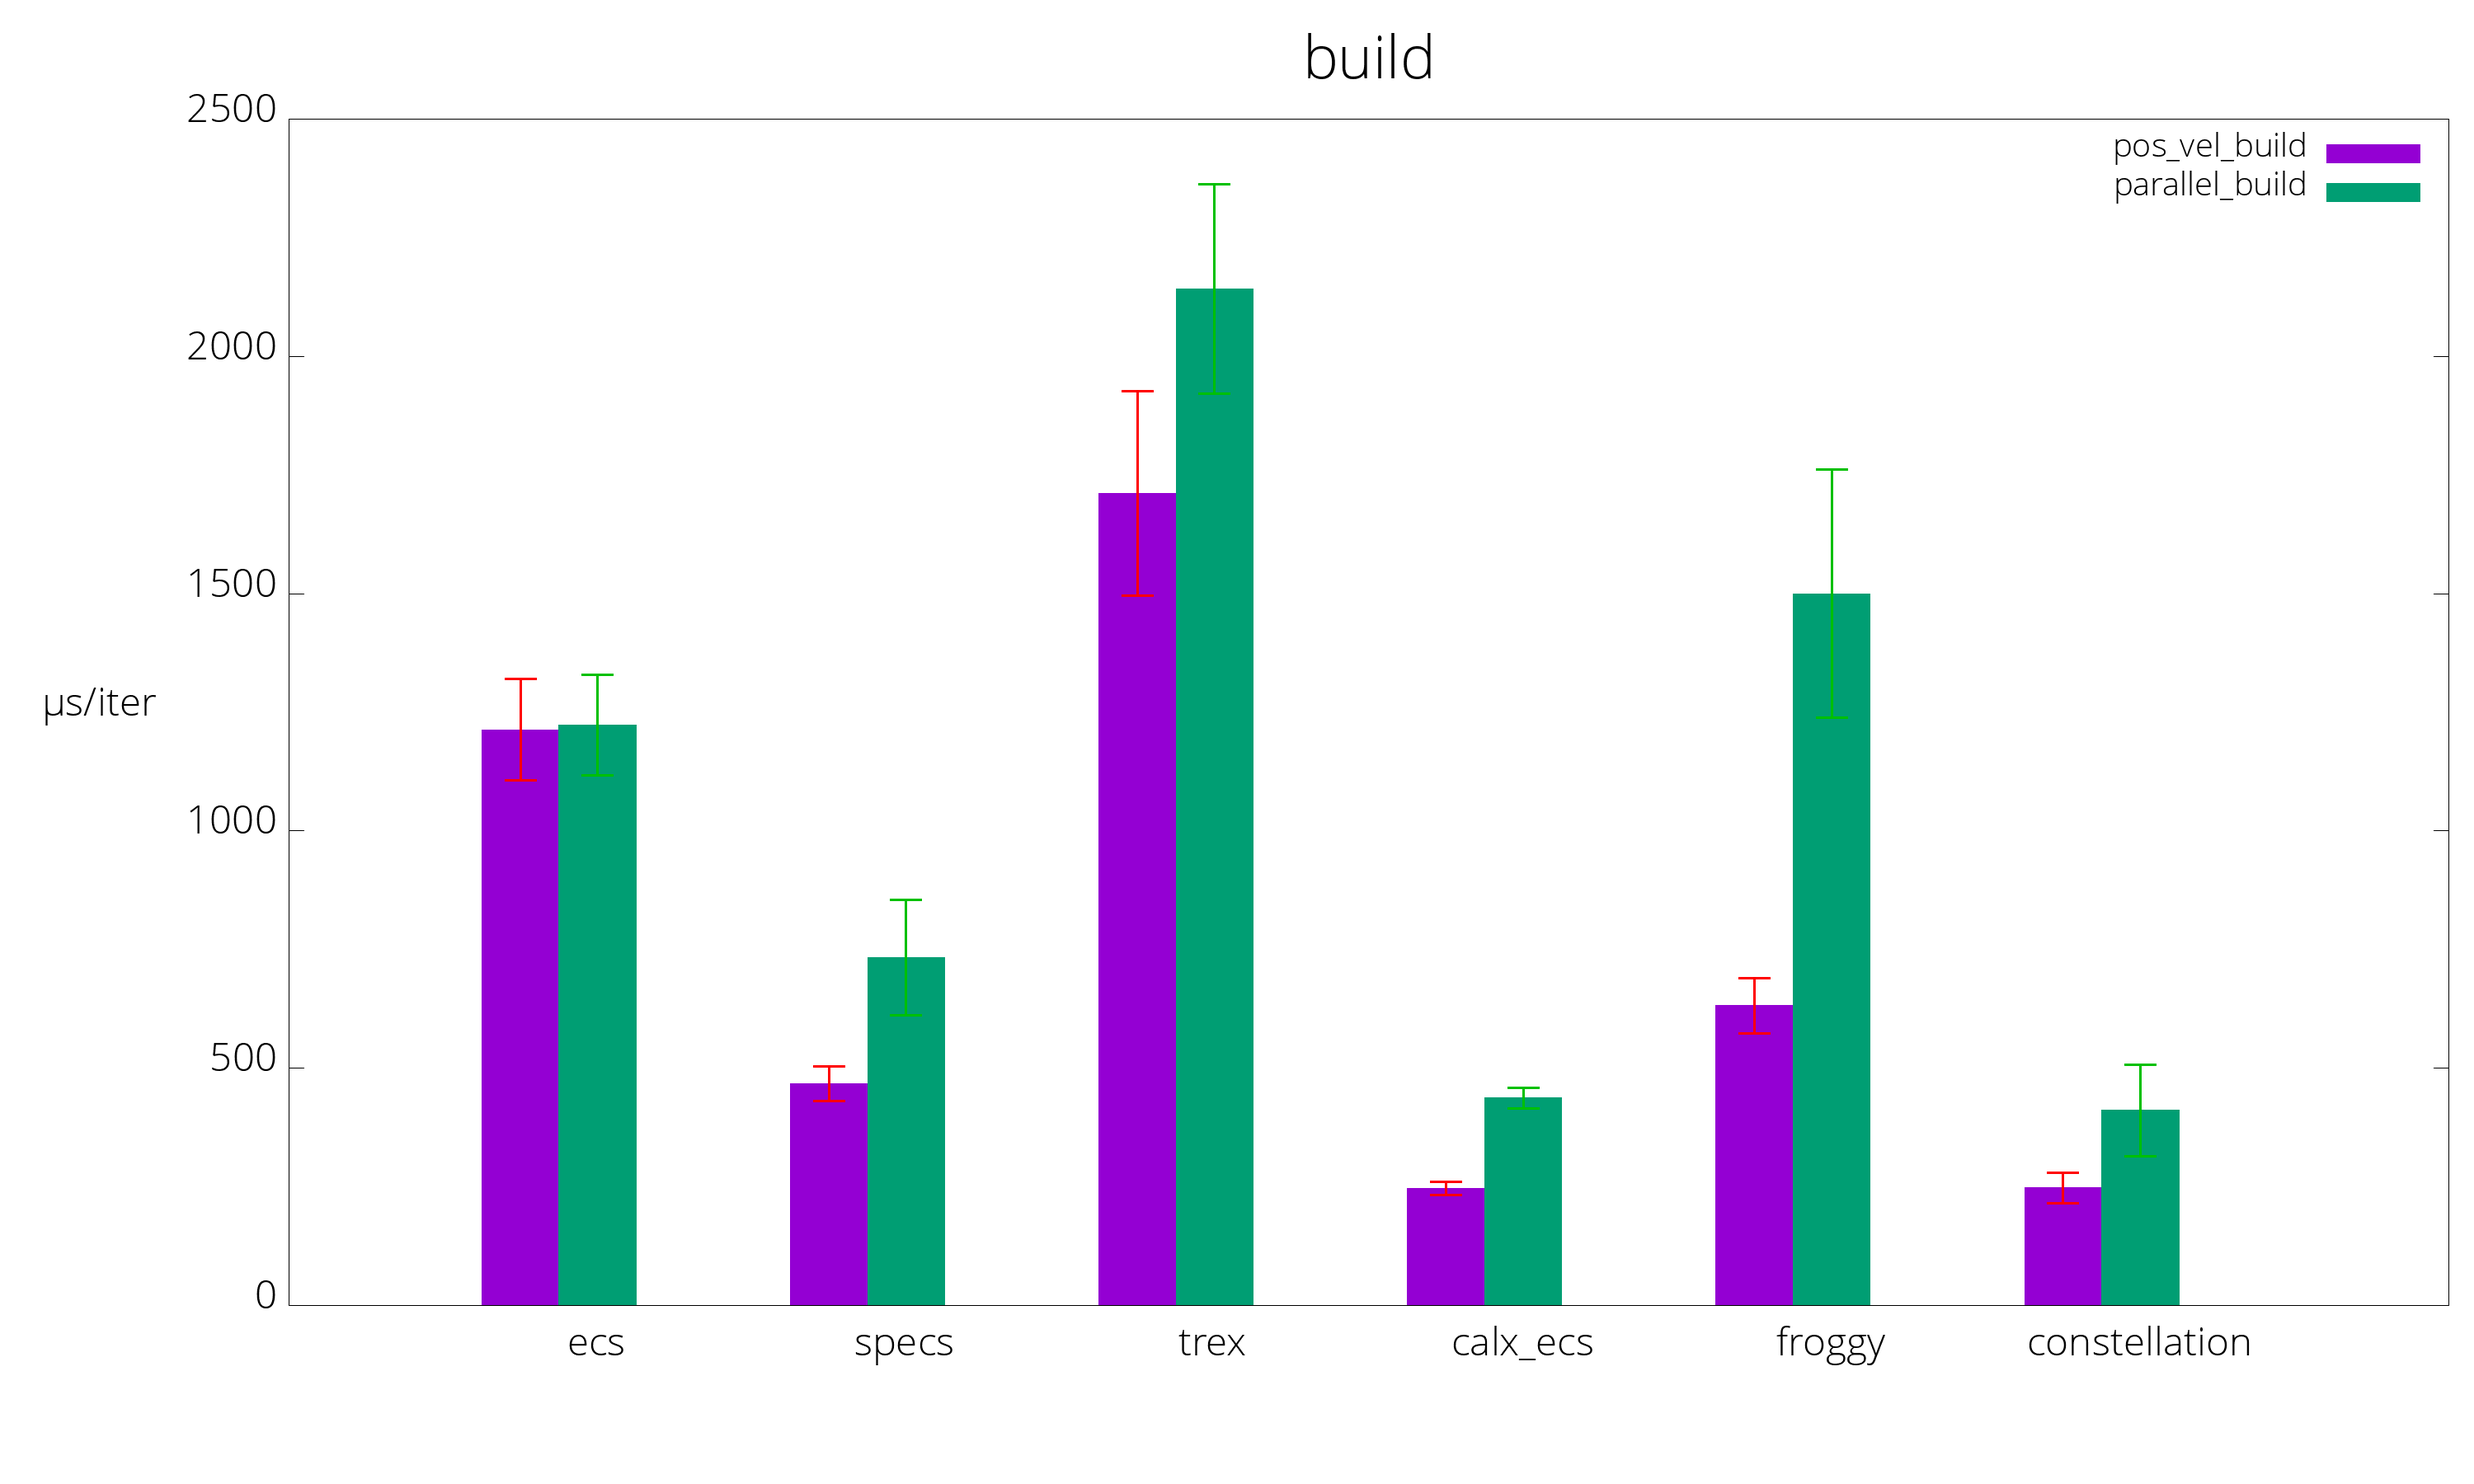
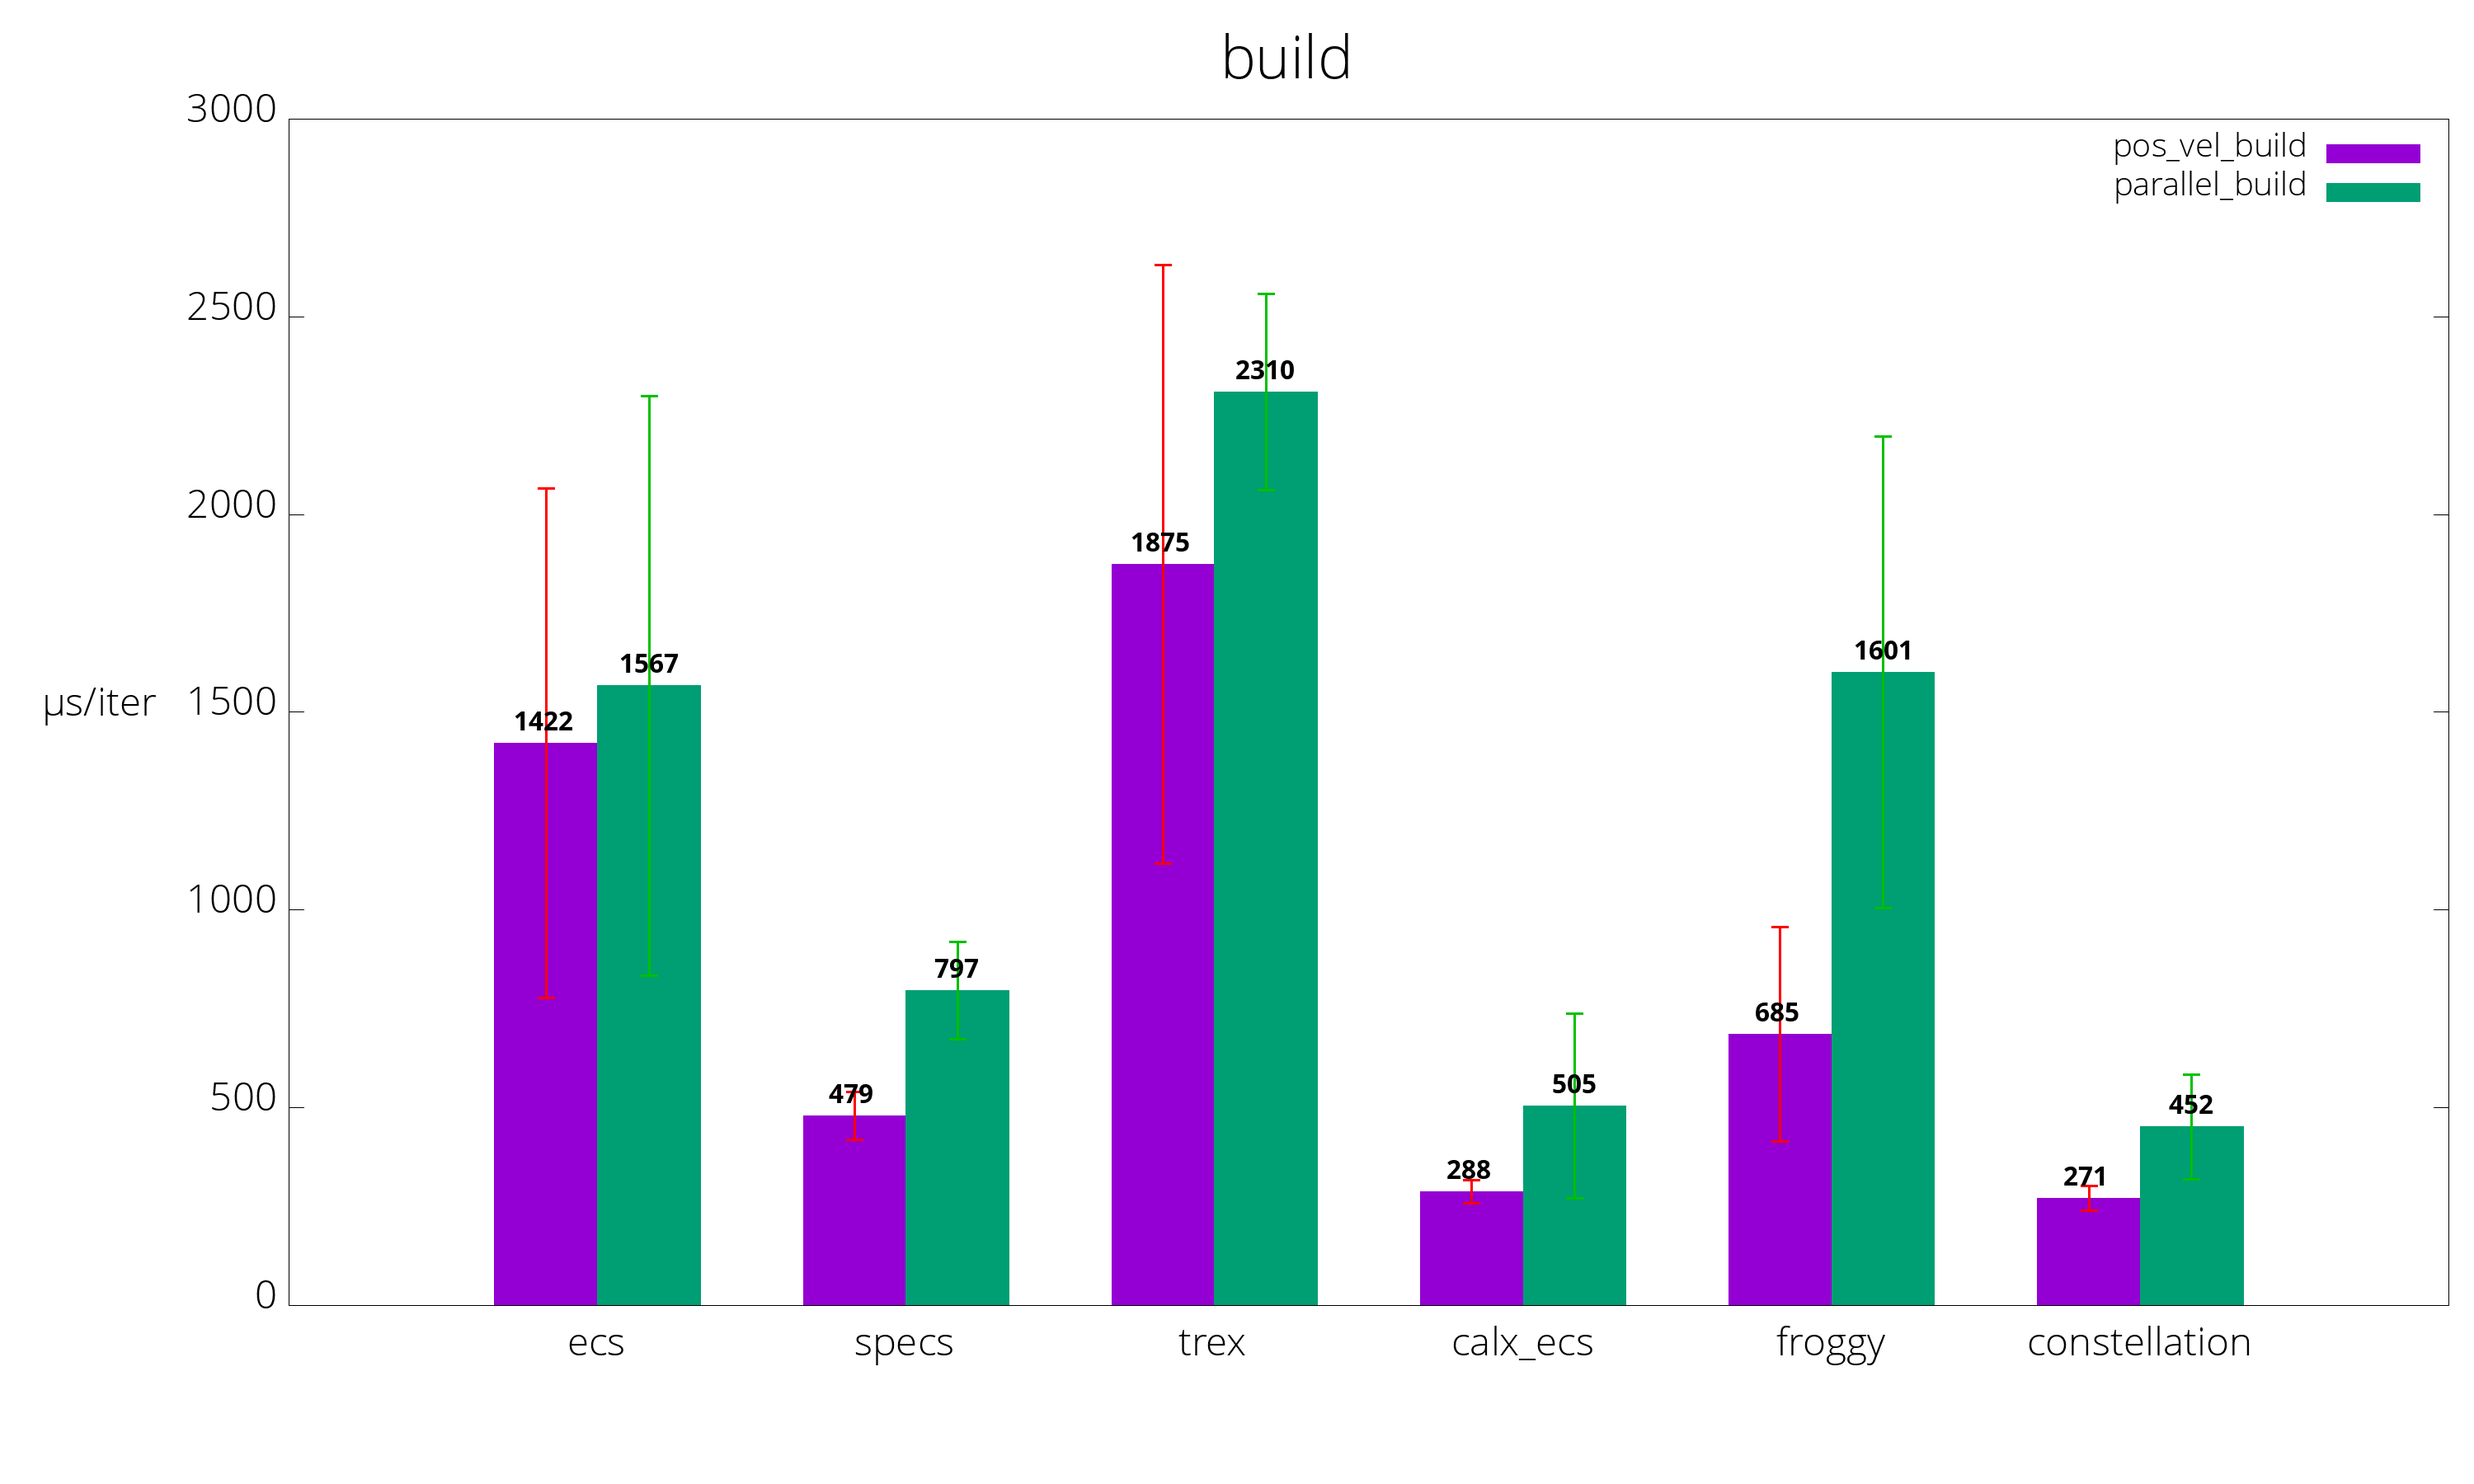
Labels for columns

diff --git a/bench_results.py b/bench_results.py
@@ -85,7 +85,7 @@ def graph(dataset, targets, names, benches, title):
         dat.write(formatted)
 
     # commands to send to `gnuplot`
-    args = "gnuplot -e \"data=\'./graph/{0}.dat';title=\'{0}\';\" ./graph/graph.script > ./graph/{0}.png"
+    args = "gnuplot -e \"data=\'./graph/{0}.dat';title=\'{0}\';columns={1}\" ./graph/graph.script > ./graph/{0}.png"
     subprocess.call(args.format(title, len(targets) * len(names)), stderr=subprocess.STDOUT, shell=True)
 
 graph(dataset, bench_targets, bench_names, benches, "all")

diff --git a/README.md b/README.md
@@ -7,22 +7,22 @@ Benchmarks are located in `benches/[bench_name]_[ecs_crate_name].rs`.
 
  Library         | pos_vel build                 | pos_vel update                 | parallel build                 | parallel update
  --------------- |:-----------------------------:|:------------------------------:|:------------------------------:|:--------------------------------:
- [calx-ecs]      | 247 µs/iter (+/- 14)      | 17 µs/iter (+/- 0)      | 437 µs/iter (+/- 21)      | 62 µs/iter (+/- 6)
- [constellation] | 248 µs/iter (+/- 32) | 7 µs/iter (+/- 0) | 411 µs/iter (+/- 96) | 96 µs/iter (+/- 59)
- [ecs]           | 1,213 µs/iter (+/- 107)           | 292 µs/iter (+/- 24)           | 1,223 µs/iter (+/- 106)           | 3,708 µs/iter (+/- 407)
- [froggy]        | 632 µs/iter (+/- 58)        | 10 µs/iter (+/- 0)        | 1,500 µs/iter (+/- 262)        | 86 µs/iter (+/- 13)
- [recs]          | {pos_vel_build_recs}          | {pos_vel_update_recs}          | {parallel_build_recs}          | {parallel_update_recs}
- [specs]         | 467 µs/iter (+/- 37)         | 9 µs/iter (+/- 2)         | 733 µs/iter (+/- 121)         | 47 µs/iter (+/- 5)
- [trex]          | 1,711 µs/iter (+/- 215)          | 199 µs/iter (+/- 8)          | 2,142 µs/iter (+/- 221)          | 400 µs/iter (+/- 34)
+ [calx-ecs]      | 288 µs/iter (+/- 29)      | 18 µs/iter (+/- 1)      | 505 µs/iter (+/- 234)      | 67 µs/iter (+/- 18)
+ [constellation] | 271 µs/iter (+/- 31) | 8 µs/iter (+/- 6) | 452 µs/iter (+/- 132) | 159 µs/iter (+/- 235)
+ [ecs]           | 1,422 µs/iter (+/- 645)           | 312 µs/iter (+/- 144)           | 1,567 µs/iter (+/- 733)           | 3,899 µs/iter (+/- 1,455)
+ [froggy]        | 685 µs/iter (+/- 271)        | 10 µs/iter (+/- 1)        | 1,601 µs/iter (+/- 597)        | 99 µs/iter (+/- 40)
+ [specs]         | 479 µs/iter (+/- 60)         | 9 µs/iter (+/- 4)         | 797 µs/iter (+/- 123)         | 52 µs/iter (+/- 6)
+ [trex]          | 1,875 µs/iter (+/- 757)          | 222 µs/iter (+/- 140)          | 2,310 µs/iter (+/- 248)          | 422 µs/iter (+/- 50)
 
 [calx-ecs]: https://github.com/rsaarelm/calx-ecs
 [constellation]: https://github.com/TomGillen/constellation/
 [ecs]: https://github.com/HeroesGrave/ecs-rs
 [froggy]: https://github.com/kvark/froggy
-[recs]: https://github.com/andybarron/rustic-ecs
 [specs]: https://github.com/slide-rs/specs
 [trex]: https://github.com/rcolinray/trex
 
+
+Visualization of benchmarks, smaller is better.
 ![update benchmarks graph](./graph/update.png)
 ![build benchmarks graph](./graph/build.png)
 
